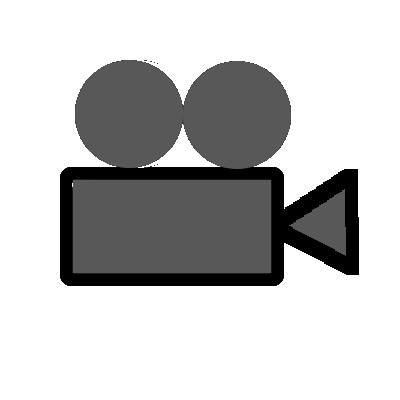
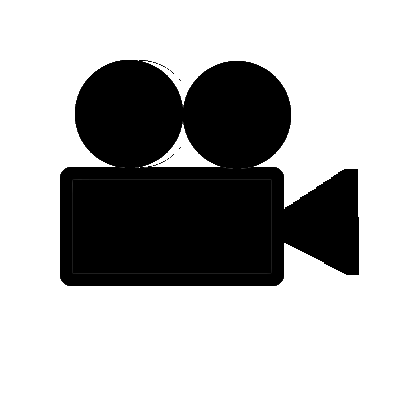
Last commit pre button functionality. They are onscreen but non-functional

Changed region(s): [[0.18, 0.15, 0.75, 0.42], [0.18, 0.45, 0.69, 0.69], [0.72, 0.48, 0.87, 0.66]]

diff --git a/code/RTSHud.razor.scss b/code/RTSHud.razor.scss
@@ -30,14 +30,12 @@ RTSHud {
     height: 50%;
     width: 100%;
     border: 1px grey;
-    //position: absolute;
 }
 
 .resourceIcon {
     height: 100%;
     width: 20%;
     left: 0;
-    //position: absolute;
     background-repeat: no-repeat;
     background-size: 100% 100%;
 }
@@ -46,13 +44,65 @@ RTSHud {
     height: 100%;
     width: 80%;
     right: 0;
-    //position: absolute;
     justify-content: center;
     font-size: 20px;
     font-weight: 700;
     text-align: center;
     align-items: center;
     color: lightsteelblue;
+}
+
+.cameraControls {
+    height: 100%;
+    width: 5%;
+    right: 0;
+    justify-content: center;
+    align-items: center;
+    position: absolute;
+    flex-direction: column;
+}
+
+.camTypeControls {
+    height: 60%;
+    width: 100%;
+}
+
+.camTypeButton {
+    height: 100%;
+    width: 50%;
+    background-repeat: no-repeat;
+    background-size: 100% 100%;
+    pointer-events: all;
+}
+
+.focusTypeButton {
+    height: 100%;
+    width: 50%;
+    pointer-events: all;
+    background-repeat: no-repeat;
+    background-size: 100% 100%;
+}
+
+.camFocusControls {
+    height: 40%;
+    width: 100%;
+    justify-content: center;
+}
+
+.prevUnitButton {
+    height: 100%;
+    width: 33%;
+    pointer-events: all;
+    background-repeat: no-repeat;
+    background-size: 100% 100%;
+}
+
+.nextUnitButton {
+    height: 100%;
+    width: 33%;
+    pointer-events: all;
+    background-repeat: no-repeat;
+    background-size: 100% 100%;
 }
 
 .bottomPanel {
